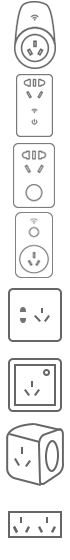
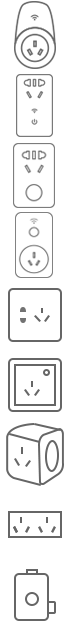
增加设备

Changed region(s): [[0.0857, 0.0, 0.9143, 1.0]]

diff --git a/src/pages/content.vue b/src/pages/content.vue
@@ -31,6 +31,7 @@ import ws1 from '../../static/js/config/content/socket/ws1'
 import ws2 from '../../static/js/config/content/socket/ws2'
 import mp1 from '../../static/js/config/content/socket/mp1'
 import mp2 from '../../static/js/config/content/socket/mp2'
+import sc1 from '../../static/js/config/content/socket/sc1'
 
 // control
 import rmhome from '../../static/js/config/content/control/rmhome'
@@ -138,6 +139,9 @@ export default {
 				break;
 			case 'MP2': 
 				this.content = mp2;
+				break;
+			case 'SC1': 
+				this.content = sc1;
 				break;
 			// control
 			case 'RMhome': 

diff --git a/src/pages/subCategory.vue b/src/pages/subCategory.vue
@@ -193,7 +193,7 @@ export default {
 	
 	// 智能插座
 	.socket {
-		background-size: pxtorem(70) pxtorem(560);
+		background-size: pxtorem(70) pxtorem(630);
 	}
 	.socket_icon0 {
 		background-position: 0 0;
@@ -227,6 +227,9 @@ export default {
 	}
 	.socket_icon10 {
 		background-position: 0 pxtorem(-420);
+	}
+	.socket_icon11 {
+		background-position: 0 pxtorem(-560);
 	}
 
 	// 智能排插

diff --git a/static/js/config/content/socket/sc1.js b/static/js/config/content/socket/sc1.js
@@ -7,8 +7,8 @@ export default [{
 },{
 	title: '产品说明',
 	detail: [{
-		title: '如何将RMAC配置上智慧星APP',
-		url: 'http://mp.weixin.qq.com/s/KEW7X71cym7h0ETP1lFyAQ#wechat_redirect'
+		title: '如何将wifi控制盒配上手机',
+		url: 'http://mp.weixin.qq.com/s/0HeQjI_qLq2wp0VbI4aAwA#wechat_redirect'
 	}]
 },{
 	title: '视频教学',

diff --git a/static/js/config/content/socket/sp2s.js b/static/js/config/content/socket/sp2s.js
@@ -9,6 +9,9 @@ export default [{
 	detail: [{
 		title: '如何将SP2S配置上智慧星APP',
 		url: ' http://mp.weixin.qq.com/s/-NZ7s1F1XxVdLEHcig4meQ#wechat_redirect'
+	},{
+		title: '如何设置SP2S定时',
+		url: 'http://mp.weixin.qq.com/s/-LbNqRJuAvmMutpEq0QmUg#wechat_redirect'
 	}]
 },{
 	title: '视频教学',

diff --git a/static/js/config/content/socket/mp1.js b/static/js/config/content/socket/mp1.js
@@ -7,8 +7,8 @@ export default [{
 },{
 	title: '产品说明',
 	detail: [{
-		title: '',
-		url: ''
+		title: '如何将MP1配置上智慧星APP',
+		url: 'http://mp.weixin.qq.com/s/1u-LXSa7vOZM19ikJOPmyA#wechat_redirect'
 	}]
 },{
 	title: '视频教学',

diff --git a/static/js/config/content/socket/mp2.js b/static/js/config/content/socket/mp2.js
@@ -7,8 +7,8 @@ export default [{
 },{
 	title: '产品说明',
 	detail: [{
-		title: '',
-		url: ''
+		title: '如何将MP2配置上智慧星APP',
+		url: 'http://mp.weixin.qq.com/s/lAtkAO4t38o9Yg8n-3DfOg#wechat_redirect'
 	}]
 },{
 	title: '视频教学',

diff --git a/static/js/config/subCategory/socket.js b/static/js/config/subCategory/socket.js
@@ -42,4 +42,8 @@ export default [{
 	title: 'RM AC（16A）',
 	subTitle: '空调Wi-Fi转换插座',
 	url: '/subCategory/socket/RMAC'
+},{
+	title: 'SC1',
+	subTitle: 'Wi-Fi控制盒',
+	url: '/subCategory/socket/SC1'
 }];
